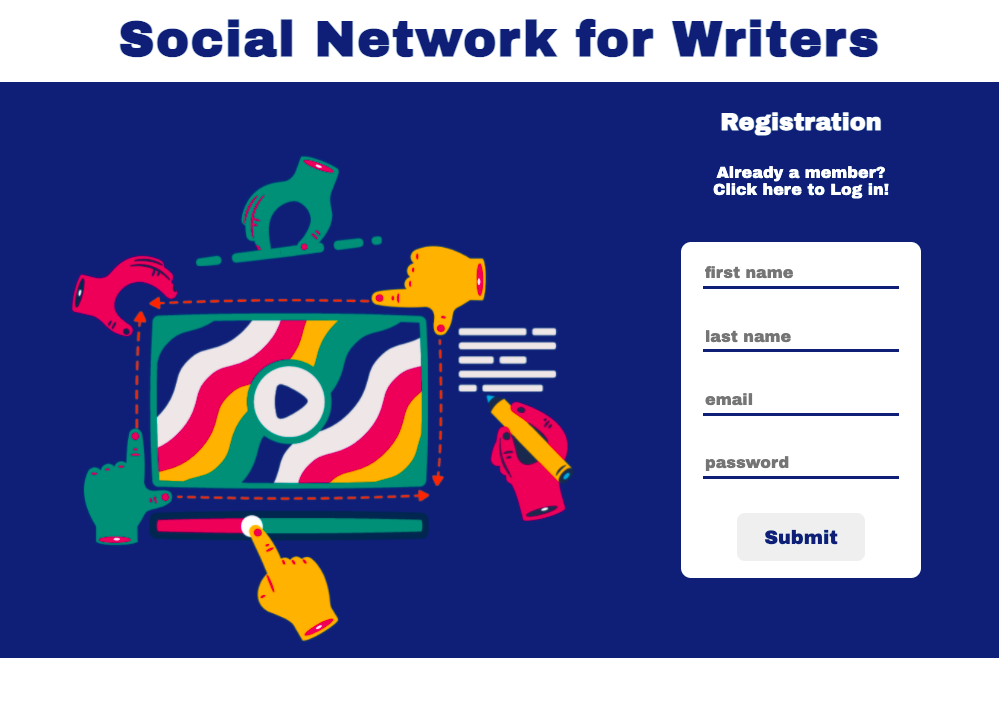
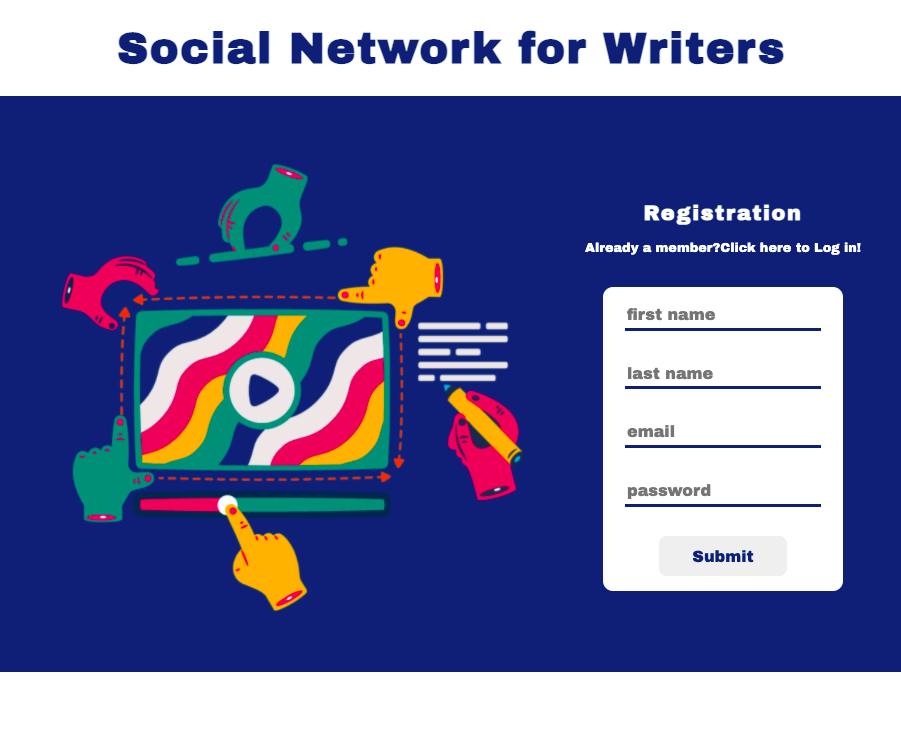
updated screenshot

diff --git a/client/style.css b/client/style.css
@@ -13,7 +13,7 @@ body {
         "head"
         "main"
         "footer";
-    grid-template-rows: 14% 10% 75% 10%;
+    grid-template-rows: 14% 10% 75% 2%;
 }
 
 .parent-welcome-container header {
@@ -23,11 +23,11 @@ body {
 }
 
 .parent-welcome-container header h1 {
-    color: #032b75;
+    color: rgb(3, 43, 117);
     letter-spacing: 0.1rem;
     justify-self: center;
     align-self: center;
-    font-size: 3.1rem;
+    font-size: 2.7rem;
     margin-bottom: 0;
     margin-top: 1rem;
     grid-area: 1/1/1/3;
@@ -44,17 +44,20 @@ body {
 }
 
 .work-img {
-    height: 38rem;
-    width: 38rem;
+    height: 35rem;
+    width: 35rem;
     grid-area: 1/1/4/1;
     justify-self: center;
+    align-self: start;
 }
 
 .childs-welcome-container h2 {
-    grid-area: 1/2/2/2;
+    grid-area: 2/2/2/2;
     justify-self: center;
-    align-self: center;
+    align-self: end;
     margin: 0;
+    font-size: 1.3rem;
+    letter-spacing: 0.1rem;
 }
 .childs-welcome-container h3 {
     grid-area: 1/1/1/4;
@@ -64,13 +67,12 @@ body {
 }
 
 .childs-welcome-container a {
-    grid-area: 2/2/2/4;
+    grid-area: 3/2/3/4;
     justify-self: center;
-    text-align: center;
+    align-self: center;
     color: white;
     font-family: "Archivo Black";
-    font-size: 1rem;
-    margin: 0.1rem;
+    font-size: 0.8rem;
 }
 
 .childs-welcome-container .error {
@@ -83,15 +85,15 @@ body {
 }
 
 .input-container {
-    grid-area: 3/2 /10 /2;
+    grid-area: 4/2 /10 /2;
     justify-self: center;
     align-self: start;
-    height: 21rem;
+    height: 19rem;
     width: 15rem;
     display: grid;
     align-items: center;
     border-radius: 10px;
-    margin-top: 2rem;
+    margin-top: 0.9rem;
     background-color: white;
 }
 
@@ -110,13 +112,13 @@ body {
 }
 
 .childs-welcome-container button {
-    height: 3rem;
+    height: 2.5rem;
     width: 8rem;
     justify-self: center;
     border: hidden;
     border-radius: 8px;
     font-family: "Archivo Black", sans-serif;
-    font-size: 1.2rem;
+    font-size: 1rem;
     color: #032b75;
 }
 

diff --git a/client/src/registration.js b/client/src/registration.js
@@ -72,8 +72,7 @@ export default class Registration extends Component {
                 <img className="work-img" src="../vector1.png"></img>
                 <Link to="/login">
                     {" "}
-                    Already a member? <br />
-                    Click here to Log in!
+                    Already a member?Click here to Log in!
                 </Link>
 
                 {this.state.error && (
